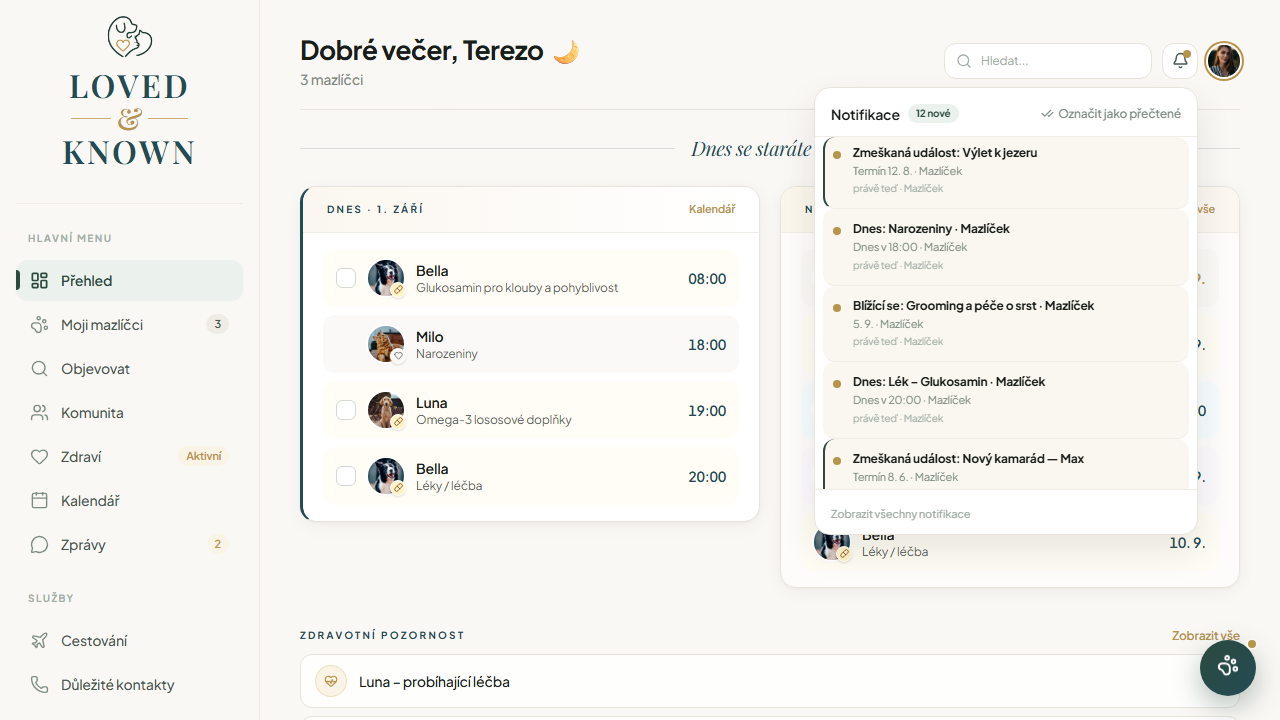
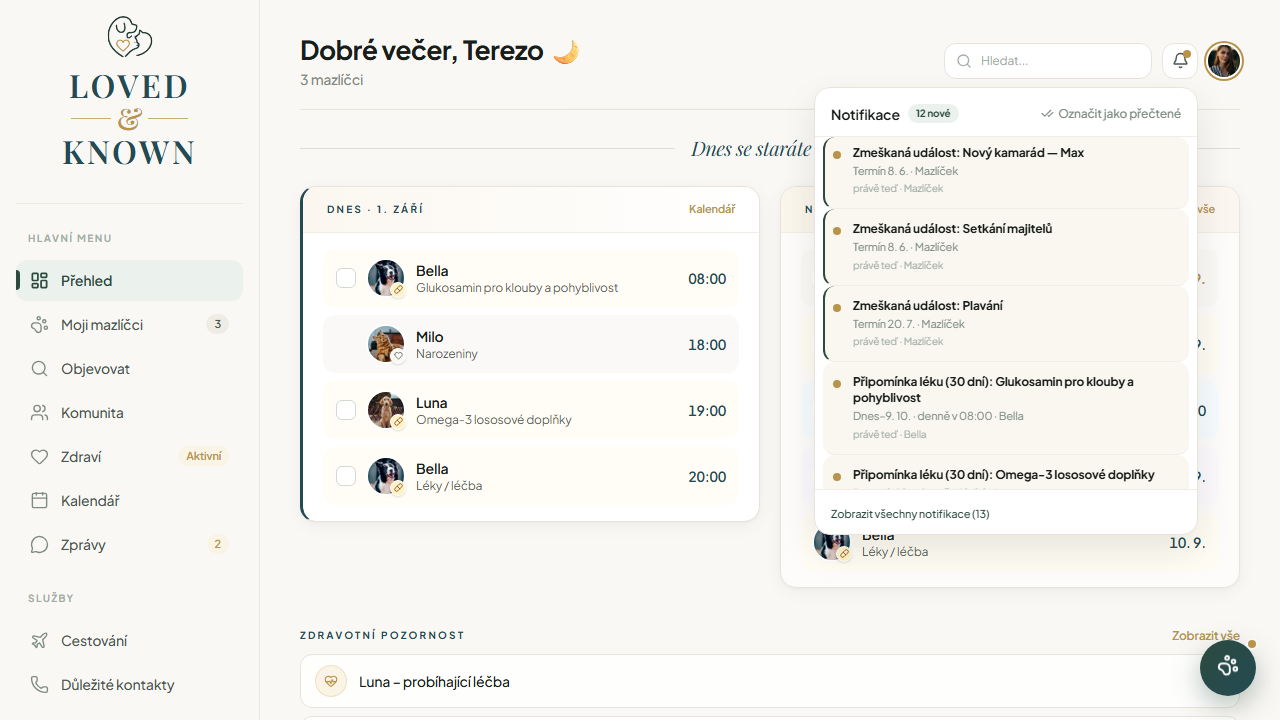
Enhance Notification Handling and UI Improvements
- Updated e2e-notifications script to improve notification preview and scrolling behavior, ensuring users can easily access older notifications.
- Refactored Header component to manage notification visibility and improve user interaction with the dropdown, including a toggle for viewing all notifications.
- Introduced new functions in AppContext for pruning stale derived notifications, enhancing notification management and preventing duplicates.
- Enhanced notification rendering logic to ensure active and resolved notifications are accurately represented in the UI.

diff --git a/src/components/layout/Header.tsx b/src/components/layout/Header.tsx
@@ -15,6 +15,9 @@ import type { AppNotification } from '../../types'
 import { Avatar } from '../ui/Avatar'
 import { SearchInput } from '../ui/SearchInput'
 
+/** Dropdown shows a recent preview; full list via „Zobrazit všechny“. */
+const NOTIFICATION_PREVIEW_LIMIT = 8
+
 function getGreetingData(): { greeting: string; emoji: string } {
   const hour = new Date().getHours()
   if (hour < 12) return { greeting: 'Dobré ráno', emoji: '☀' }
@@ -39,6 +42,7 @@ export function Header() {
   } = useApp()
   const navigate = useNavigate()
   const [showNotifications, setShowNotifications] = useState(false)
+  const [showAllNotifications, setShowAllNotifications] = useState(false)
   const [searchInput, setSearchInput] = useState('')
 
   const sortedNotifications = useMemo(
@@ -46,6 +50,11 @@ export function Header() {
     [notifications],
   )
   const unreadCount = sortedNotifications.filter((item) => item.unread).length
+  const hasMoreThanPreview = sortedNotifications.length > NOTIFICATION_PREVIEW_LIMIT
+  const visibleNotifications =
+    showAllNotifications || !hasMoreThanPreview
+      ? sortedNotifications
+      : sortedNotifications.slice(0, NOTIFICATION_PREVIEW_LIMIT)
 
   const handleSearchSubmit = (e: React.FormEvent) => {
     e.preventDefault()
@@ -59,6 +68,19 @@ export function Header() {
     const href = notificationHrefFallback(item)
     if (href) navigate(href)
     setShowNotifications(false)
+    setShowAllNotifications(false)
+  }
+
+  const toggleDropdown = () => {
+    setShowNotifications((open) => {
+      if (open) setShowAllNotifications(false)
+      return !open
+    })
+  }
+
+  const closeDropdown = () => {
+    setShowNotifications(false)
+    setShowAllNotifications(false)
   }
 
   return (
@@ -92,7 +114,7 @@ export function Header() {
 
           <div className="relative">
             <button
-              onClick={() => setShowNotifications(!showNotifications)}
+              onClick={toggleDropdown}
               className="relative flex h-9 w-9 items-center justify-center rounded-xl border border-[#E8E4DC] bg-white text-[#4A564F] transition-all hover:bg-[#FAF8F5] hover:text-[#191E1B] hover:border-[#D1E0D8] cursor-pointer"
               aria-label="Notifikace"
             >
@@ -106,7 +128,7 @@ export function Header() {
               <>
                 <div
                   className="fixed inset-0 z-30"
-                  onClick={() => setShowNotifications(false)}
+                  onClick={closeDropdown}
                 />
                 <div className="absolute right-0 top-11 z-40 flex max-h-[min(28rem,70vh)] w-80 flex-col overflow-hidden rounded-2xl border border-[#E8E4DC] bg-white shadow-[0_15px_35px_rgba(25,30,27,0.1)] animate-in fade-in zoom-in-95 duration-150 sm:w-96">
                   <div className="flex shrink-0 items-center justify-between border-b border-[#F0EDE6] px-4 pb-3 pt-4">
@@ -135,7 +157,7 @@ export function Header() {
                         </p>
                       </div>
                     ) : (
-                      sortedNotifications.map((item) => (
+                      visibleNotifications.map((item) => (
                         <div
                           key={item.id}
                           role="button"
@@ -180,11 +202,25 @@ export function Header() {
                       ))
                     )}
                   </div>
-                  <div className="shrink-0 border-t border-[#F0EDE6] px-4 py-2.5">
-                    <span className="text-[11px] font-medium text-[#A3AFA7]">
-                      Zobrazit všechny notifikace
-                    </span>
-                  </div>
+                  {sortedNotifications.length > 0 && (
+                    <div className="shrink-0 border-t border-[#F0EDE6] px-4 py-2.5">
+                      {hasMoreThanPreview ? (
+                        <button
+                          type="button"
+                          onClick={() => setShowAllNotifications((v) => !v)}
+                          className="cursor-pointer text-[11px] font-medium text-[#2C4A3E] hover:text-[#191E1B]"
+                        >
+                          {showAllNotifications
+                            ? 'Zobrazit méně'
+                            : `Zobrazit všechny notifikace (${sortedNotifications.length})`}
+                        </button>
+                      ) : (
+                        <span className="text-[11px] font-medium text-[#A3AFA7]">
+                          Zobrazit všechny notifikace
+                        </span>
+                      )}
+                    </div>
+                  )}
                 </div>
               </>
             )}

diff --git a/src/context/AppContext.tsx b/src/context/AppContext.tsx
@@ -96,6 +96,7 @@ import {
   removeNotificationsBySourceRecord,
   saveNotifications,
   upsertNotification as upsertNotificationInList,
+  pruneStaleDerivedNotifications,
   type NotificationDraft,
 } from '../lib/notifications'
 import type { EarnedBadge } from '../types/badges'
@@ -1700,12 +1701,27 @@ export function AppProvider({ children }: { children: ReactNode }) {
       ),
     )
 
-    const reporterIds = [...new Set(relatedReports.map((r) => r.reporterAnonymousId))]
-    if (reporterIds.length > 0) {
-      upsertNotification({
+    // Retire active lost alert (keep in history as read) + record resolution
+    setNotifications((prev) => {
+      let next = prev.map((item) =>
+        item.dedupeKey === `lost:active:${announcementId}`
+          ? {
+              ...item,
+              unread: false,
+              priority: 'normal' as const,
+              title: `${petName} je doma`,
+              message: 'Pátrání bylo ukončeno.',
+              time: 'právě teď',
+            }
+          : item,
+      )
+      next = upsertNotificationInList(next, {
         id: `lost-resolved-${announcementId}`,
         type: 'lost_pet',
-        title: `${petName} je doma. Děkujeme všem, kteří pomohli.`,
+        title:
+          relatedReports.length > 0
+            ? `${petName} je doma. Děkujeme všem, kteří pomohli.`
+            : `${petName} je doma`,
         message: 'Pátrání bylo ukončeno.',
         priority: 'important',
         dedupeKey: `lost:resolved:${announcementId}`,
@@ -1715,7 +1731,8 @@ export function AppProvider({ children }: { children: ReactNode }) {
         lostAnnouncementId: announcementId,
         time: 'právě teď',
       })
-    }
+      return next
+    })
 
     // Close secure contacts + notify finders
     const homeText = `Mazlíček je doma. ❤\nDěkujeme, že jste pomohli.`
@@ -1777,6 +1794,18 @@ export function AppProvider({ children }: { children: ReactNode }) {
       prev.map((item) =>
         item.id === announcement.petId
           ? { ...item, lostStatus: 'closed', activeLostAnnouncementId: undefined }
+          : item,
+      ),
+    )
+    setNotifications((prev) =>
+      prev.map((item) =>
+        item.dedupeKey === `lost:active:${announcementId}`
+          ? {
+              ...item,
+              unread: false,
+              priority: 'normal' as const,
+              message: 'Pátrání bylo deaktivováno.',
+            }
           : item,
       ),
     )
@@ -2586,20 +2615,20 @@ export function AppProvider({ children }: { children: ReactNode }) {
       ...buildCalendarNotificationDrafts(calendarEvents, pets),
       ...buildHealthNotificationDrafts(healthRecords, pets),
     ]
-    if (drafts.length === 0) return
     setNotifications((prev) => {
       let next = prev
       let changed = false
       for (const draft of drafts) {
-        const exists = next.some((item) => item.dedupeKey === draft.dedupeKey)
-        if (exists) {
-          // Refresh title/message/href without flipping read state
-          const before = next
-          next = upsertNotificationInList(next, draft)
-          if (next !== before) changed = true
-          continue
-        }
+        const before = next
         next = upsertNotificationInList(next, draft)
+        if (next !== before) changed = true
+      }
+      const pruned = pruneStaleDerivedNotifications(
+        next,
+        drafts.map((d) => d.dedupeKey),
+      )
+      if (pruned !== next) {
+        next = pruned
         changed = true
       }
       return changed ? next : prev
@@ -2826,6 +2855,13 @@ export function AppProvider({ children }: { children: ReactNode }) {
     const existing = calendarEvents.find((event) => event.id === eventId)
     setCalendarEvents((prev) =>
       prev.filter((event) => event.id !== eventId && event.seriesId !== eventId),
+    )
+    setNotifications((prev) =>
+      prev.filter(
+        (item) =>
+          item.sourceEventId !== eventId &&
+          !item.dedupeKey.startsWith(`cal:${eventId}:`),
+      ),
     )
     setEditingCalendarEventId(null)
     setEditingOccurrenceDate(null)

diff --git a/src/lib/notifications/upsert.ts b/src/lib/notifications/upsert.ts
@@ -5,6 +5,30 @@ import {
   type NotificationDraft,
 } from './model'
 
+/** Derived reconcile keys — obsolete buckets must be pruned to avoid duplicates. */
+export function isDerivedNotificationKey(dedupeKey: string): boolean {
+  return (
+    dedupeKey.startsWith('cal:') ||
+    dedupeKey.startsWith('vax:') ||
+    dedupeKey.startsWith('record:') ||
+    dedupeKey.startsWith('health:')
+  )
+}
+
+/**
+ * Keep event/message/lost/seed notifications; drop derived keys not in the active set.
+ */
+export function pruneStaleDerivedNotifications(
+  list: AppNotification[],
+  activeDedupeKeys: Iterable<string>,
+): AppNotification[] {
+  const active = new Set(activeDedupeKeys)
+  const next = list.filter(
+    (item) => !isDerivedNotificationKey(item.dedupeKey) || active.has(item.dedupeKey),
+  )
+  return next.length === list.length ? list : next
+}
+
 /**
  * Insert or update by `dedupeKey`.
  * Existing unread/read state is preserved (never re-marks read → unread).

diff --git a/src/lib/notifications/index.ts b/src/lib/notifications/index.ts
@@ -18,6 +18,8 @@ export {
   removeNotificationsBySourceRecord,
   removeNotificationsByDedupePrefix,
   migrateNotificationList,
+  pruneStaleDerivedNotifications,
+  isDerivedNotificationKey,
 } from './upsert'
 export {
   buildCalendarNotificationDrafts,
